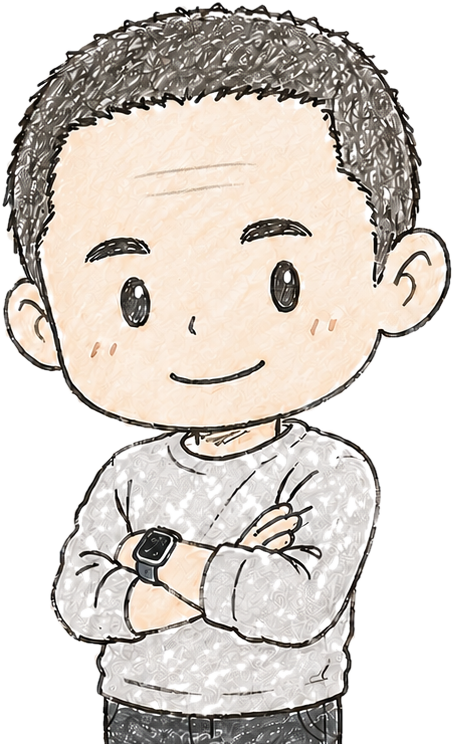
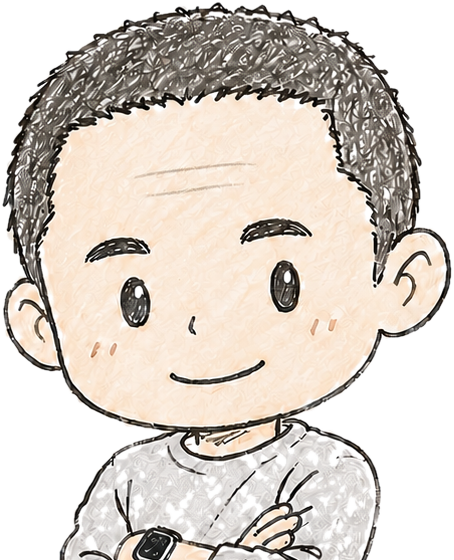
Keep encouragement character face visible

diff --git a/assets/styles.css b/assets/styles.css
@@ -350,9 +350,9 @@ p {
 
 .encourage-character img {
   display: block;
-  width: 86px;
+  width: auto;
   max-width: none;
-  height: auto;
+  height: 100%;
   object-fit: contain;
   object-position: bottom center;
   filter: drop-shadow(0 8px 10px rgba(18, 63, 125, 0.18));
@@ -595,7 +595,7 @@ p {
   }
 
   .encourage-character img {
-    width: 76px;
+    height: 100%;
   }
 
   .category-card a {
@@ -754,7 +754,7 @@ p {
   }
 
   body[data-page="home"] .encourage-character img {
-    width: 82px;
+    height: 100%;
   }
 
   body[data-page="home"] .site-footer {